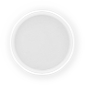
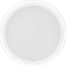
优化浮动窗口，显示与隐藏窗口逻辑

diff --git a/src/main/services/ElectronAppService.ts b/src/main/services/ElectronAppService.ts
@@ -16,10 +16,9 @@ import TrayIcon from "../tray-icon.png";
 import { configStore } from "../helper/config";
 import { IApp, ILogger, IOssService, IStore } from "../interface";
 import SERVICE_IDENTIFIER from "../constants/identifiers";
-import { TransferStatus, TransferStore } from "../types";
+import { TransferStore } from "../types";
 import IpcChannelsService from "./IpcChannelsService";
 import { checkDirExist, emitter, fail, mkdir, success } from "../helper/utils";
-import VFile from "../../MainWindow/lib/vdir/VFile";
 import TAG from "../constants/tags";
 
 /**
@@ -115,9 +114,10 @@ export default class ElectronAppService implements IApp {
           label: "显示悬浮窗",
           visible: getPlatform() === Platform.windows,
           type: "checkbox",
-          checked: true,
+          checked: configStore.get("showFloatWindow"),
           click: item => {
             if (this.floatWindow) {
+              configStore.set("showFloatWindow", item.checked);
               if (item.checked) {
                 this.floatWindow.show();
               } else {
@@ -242,7 +242,8 @@ export default class ElectronAppService implements IApp {
           if (this.floatWindow) this.floatWindow = null;
         });
         this.floatWindow.once("ready-to-show", () => {
-          if (this.floatWindow) this.floatWindow.show();
+          if (this.floatWindow && configStore.get("showFloatWindow"))
+            this.floatWindow.show();
         });
       }
       // --------------------------------------------------------------

diff --git a/src/FloatWindow/index.scss b/src/FloatWindow/index.scss
@@ -7,20 +7,18 @@
 
   &.circle {
     background-image: url("./circle-bg.png");
-    background-position-x: 0.8px;
-    background-position-y: 0.6px;
     background-repeat: no-repeat;
 
     &::after {
       content: "拖拽上传";
       display: block;
-      height: 64px;
+      height: 67px;
       font-size: 12px;
-      line-height: 64px;
+      line-height: 67px;
       text-align: center;
       color: #fff;
-      width: 64px;
-      border-radius: 32px;
+      width: 67px;
+      border-radius: 34px;
       background: #484b58;
       z-index: -1;
     }
@@ -29,13 +27,12 @@
       .file-drop-target {
         &.file-drop-dragging-over-frame {
           position: absolute;
-          top: 11px;
-          left: 11px;
-          height: 64px;
-          width: 64px;
-          border-radius: 32px;
+          top: 0;
+          left: 0;
+          height: 67px;
+          width: 67px;
+          border-radius: 34px;
           background-color: rgba(0, 0, 0, 0.5);
-          filter: blur(5px);
         }
       }
     }
@@ -65,12 +62,12 @@
     .file-drop-target {
       &.file-drop-dragging-over-frame {
         position: absolute;
-        top: 11px;
+        top: 0;
+        left: 0;
         height: 30px;
         width: 85px;
         border-radius: 15px;
         background-color: rgba(0, 0, 0, 0.5);
-        filter: blur(5px);
       }
     }
   }

diff --git a/src/FloatWindow/index.tsx b/src/FloatWindow/index.tsx
@@ -19,10 +19,10 @@ const App = () => {
     const currentWindow = remote.getCurrentWindow();
     if (t === FlowWindowStyle.circle) {
       setCircle(true);
-      currentWindow.setContentSize(85, 85);
+      currentWindow.setContentSize(67, 67);
     } else {
       setCircle(false);
-      currentWindow.setContentSize(110, 50);
+      currentWindow.setContentSize(87, 30);
     }
   };
   const onFileDrop = async (files: FileList | null) => {

diff --git a/src/MainWindow/components/Bucket/index.tsx b/src/MainWindow/components/Bucket/index.tsx
@@ -275,7 +275,6 @@ const Bucket: React.FC<PropTypes> = ({ bucketMeta }) => {
     ipcRenderer.on("upload-finish", onUploadFinish);
 
     return () => {
-      console.log("开始卸载组件");
       ipcRenderer.removeListener("upload-finish", onUploadFinish);
     };
   }, [bucketMeta]);
